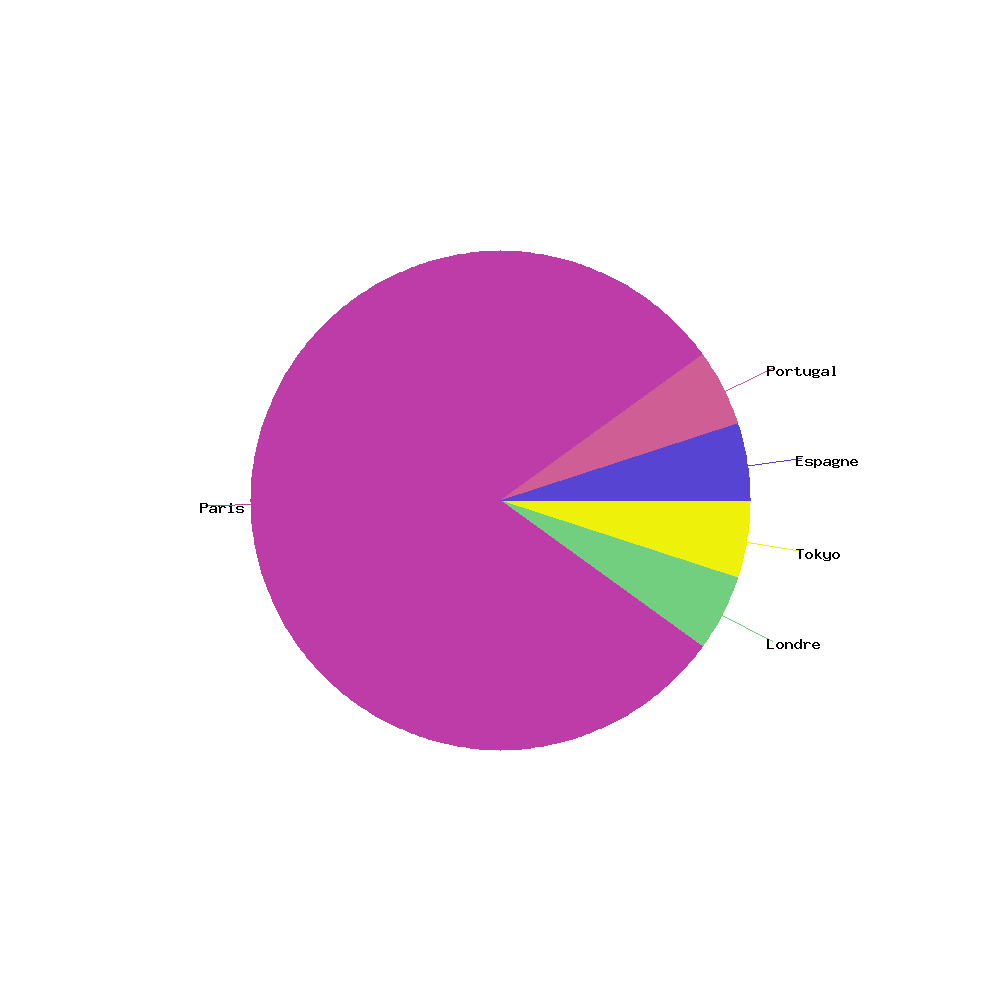
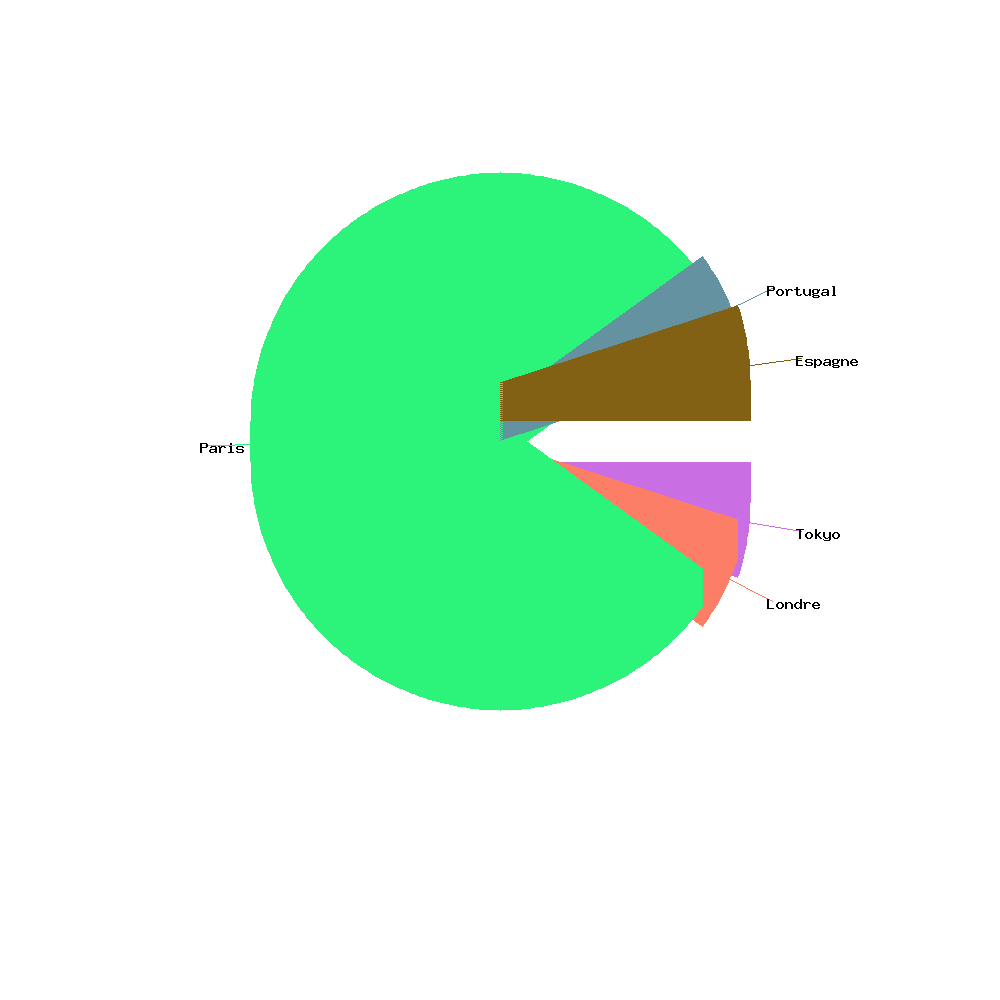
Ajout de la représentation 3D pour les camemberts

Changed region(s): [[0.217, 0.155, 0.837, 0.775], [0.775, 0.589, 0.806, 0.651], [0.806, 0.279, 0.837, 0.31]]

diff --git a/main.c b/main.c
@@ -114,7 +114,12 @@ void dessine(gdImagePtr *img, char* tab[], int tab_size){
         //DESSIN DES PARTS DE GATEAU
         int couleur_random = gdImageColorAllocate(*img, rand() % 256, rand() % 256, rand() % 256);      //On génère une nouvelle couleur aléatoire pour chaque part du camembert
         fin = debut + ((double)data_pourcentage[i]/100)*360;
-        gdImageFilledArc(*img, centreX,centreY, rayon,rayon, debut,fin, couleur_random,gdArc);          //On dessine la part de camembert
+
+        int epaisseur = 20; //epaisseur en pixel du camembert pour le 3D
+        for(int i=0;i<epaisseur;i++){
+            gdImageFilledArc(*img, centreX,centreY-i, rayon,rayon, debut,fin, couleur_random,gdArc); //On dessine la part de camembert
+            centreY=centreY-1;
+        }
 
         //Ajout du nom du pays à côté des parts du camembert (coordonnées polaires)
         int stringAngle= debut + ((fin-debut)/2); //Angle moyen entre debut et fin
